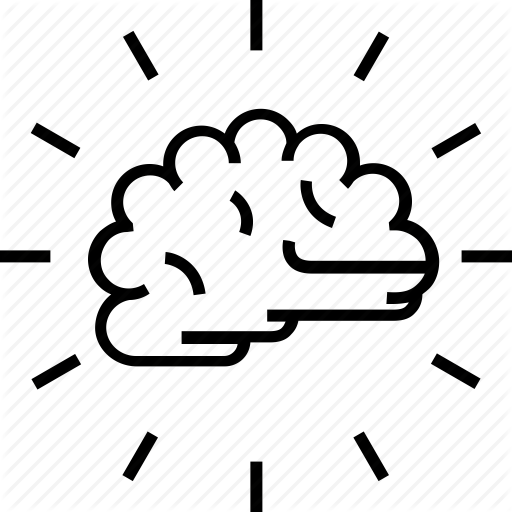
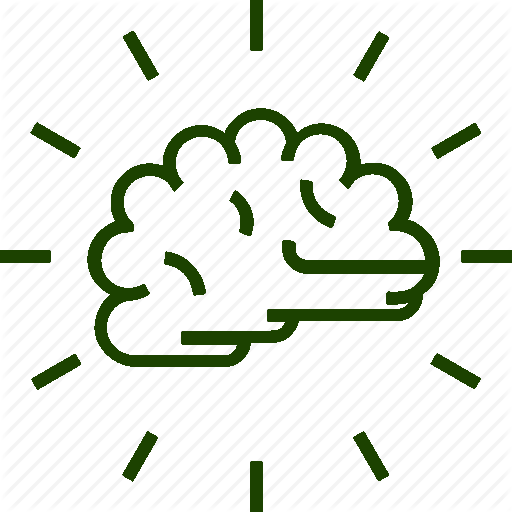
software hardware section start

diff --git a/index.html b/index.html
@@ -152,21 +152,21 @@
     <!-- Values Section -->
     <div class="four">
         <div class="offset-md-3 container mb-5">
-             <div class="col-md-10 standardBG">
+            <div class="col-md-10 standardBG">
                 <div class="row">
                     <div class="col-12">
                         <h1 class="headers">Values</h1>
                     </div>
                 </div>
 
-                <div class="row">
+                <div class="row greetingText">
 
                     <!-- Impact Value Section -->
                     <div class="col-md-3">
                         <img class="icons" src="assets/images/values/impactIcon.png" alt="impact icon">
                         <h6>Impact</h6>
                         <ul>
-                            <li>Technology & coding mentor for UW FullStack Web Dev. program<./li>
+                            <li>Technology & coding mentor for UW FullStack Web Dev. program</li>
                             <li>Instructor & creator of <a href="http://www.makerspace.nyc">Makerspace.NYC</a> technology program.</li>
                             <li>Teaching Arduino to ages 12-70 together.</li>
                             <li>LittleBits Chapter Leader <a href="https://littlebits.com/blog/statenisland-spotlight/">more info</a>.</li>
@@ -175,7 +175,7 @@
 
                     <!-- Curiosity Value Section -->
                     <div class="col-md-3">
-                        <img class="icons" src="assets/images/values/curiosityIcon.png" alt="curiosity icon">
+                        <img class="icons" src="assets/images/values/Brainfull.png" alt="curiosity icon">
                         <h6>Impact</h6>
                         <ul>
                             <li>Growing Tech Skills w/ UW FullStack program - A Avg.</li>
@@ -187,7 +187,7 @@
 
                     <!-- Community Value Section -->
                     <div class="col-md-3">
-                        <img class="icons" src="assets/images/values/communityIcon.png" alt="community icon">
+                        <img class="icons" src="assets/images/values/communityIconBlack.png" alt="community icon">
                         <h6>Impact</h6>
                         <ul>
                             <li>Intel IoT Developer</li>
@@ -199,7 +199,7 @@
 
                     <!-- Leadership Value Section -->
                     <div class="col-md-3">
-                        <img class="icons" src="assets/images/values/leadershipIcon.png" alt="leadership icon">
+                        <img class="icons" src="assets/images/values/leadershipIconBlack.png" alt="leadership icon">
                         <h6>Impact</h6>
                         <ul>
                             <li>Global Knowledge Mangement Tech lead.</li>
@@ -212,14 +212,58 @@
             </div>
         </div>
     </div>
-    <!-- Technologies Section -->
 
-    <!-- About Me Section-->
+    <!-- Technologies Section -->
+    <div class="five">
+        <div class="offset-md-3 container mb-5">
+            <div class="col-md-10 standardBG">
+                <div class="row">
+                    <div class="col-12">
+                        <h1 class="headers">Technologies</h1>
+                    </div>
+                </div>
+
+                <div class="row">
+                    <div class="col-md-6">
+                        <h6>Hardware</h6>
+                        <div class="col-md-6">
+                            <img class="hardSoftIcons" src="assets/images/hardware/arduino.png" alt="arduino">
+                            <img class="hardSoftIcons" src="assets/images/hardware/raspberryPi.png" alt="raspberry pi">
+                            <img class="hardSoftIcons" src="assets/images/hardware/circuits.png" alt="circuits">
+                            <img class="hardSoftIcons" src="assets/images/hardware/breadboarding.png" alt="breadboarding">
+                            <img class="hardSoftIcons" src="assets/images/hardware/soldering.png" alt="soldering">
+                        </div>
+                        <div class="col-md-6">
+                            <img class="hardSoftIcons" src="assets/images/hardware/iot.png" alt="iot">
+                            <img class="hardSoftIcons" src="assets/images/hardware/3dprinting.png" alt="3d printing">
+                            <img class="hardSoftIcons" src="assets/images/hardware/anki.png" alt="Anki">
+                            <img class="hardSoftIcons" src="assets/images/hardware/littleBits.png" alt="little bits">
+                            <img class="hardSoftIcons" src="assets/images/hardware/sensors.png" alt="sensors">
+                        </div>
+                    </div>
+
+                    <div class="col-md-6">
+                        <h6>Software</h6>
+                        <div class="col-md-6">
+
+                        </div>
+                        <div class="col-md-6">
+                            
+                        </div>
+                    </div>
+                </div>
+
+
+            </div>
+        </div>
+    </div>
+
+    <!-- Projects Section -->
     <div class="two">
         
     </div>
 
-    <!-- Projects Section -->
+    
     
 
     <!-- Blog Section -->

diff --git a/assets/css/style.css b/assets/css/style.css
@@ -258,6 +258,16 @@ button:focus {
 }
 /* Values Section End */
 
+/* Technologies Section Start */
+.hardSoftIcons {
+    height: auto;
+    width: 80px;
+    border-radius: 10px;
+    padding: 3px;
+}
+
+/* Technologies Section End */
+
 
 /* Scroll Snap */
 .one {
@@ -279,6 +289,14 @@ button:focus {
 .three {
     height: 100vh;
     scroll-snap-align: start;
+}
+
+.five {
+    height: 100vh;
+    scroll-snap-align: start;
+    display: flex;
+    align-items: center;
+    min-height: 100%;
 }
 
 .six {
